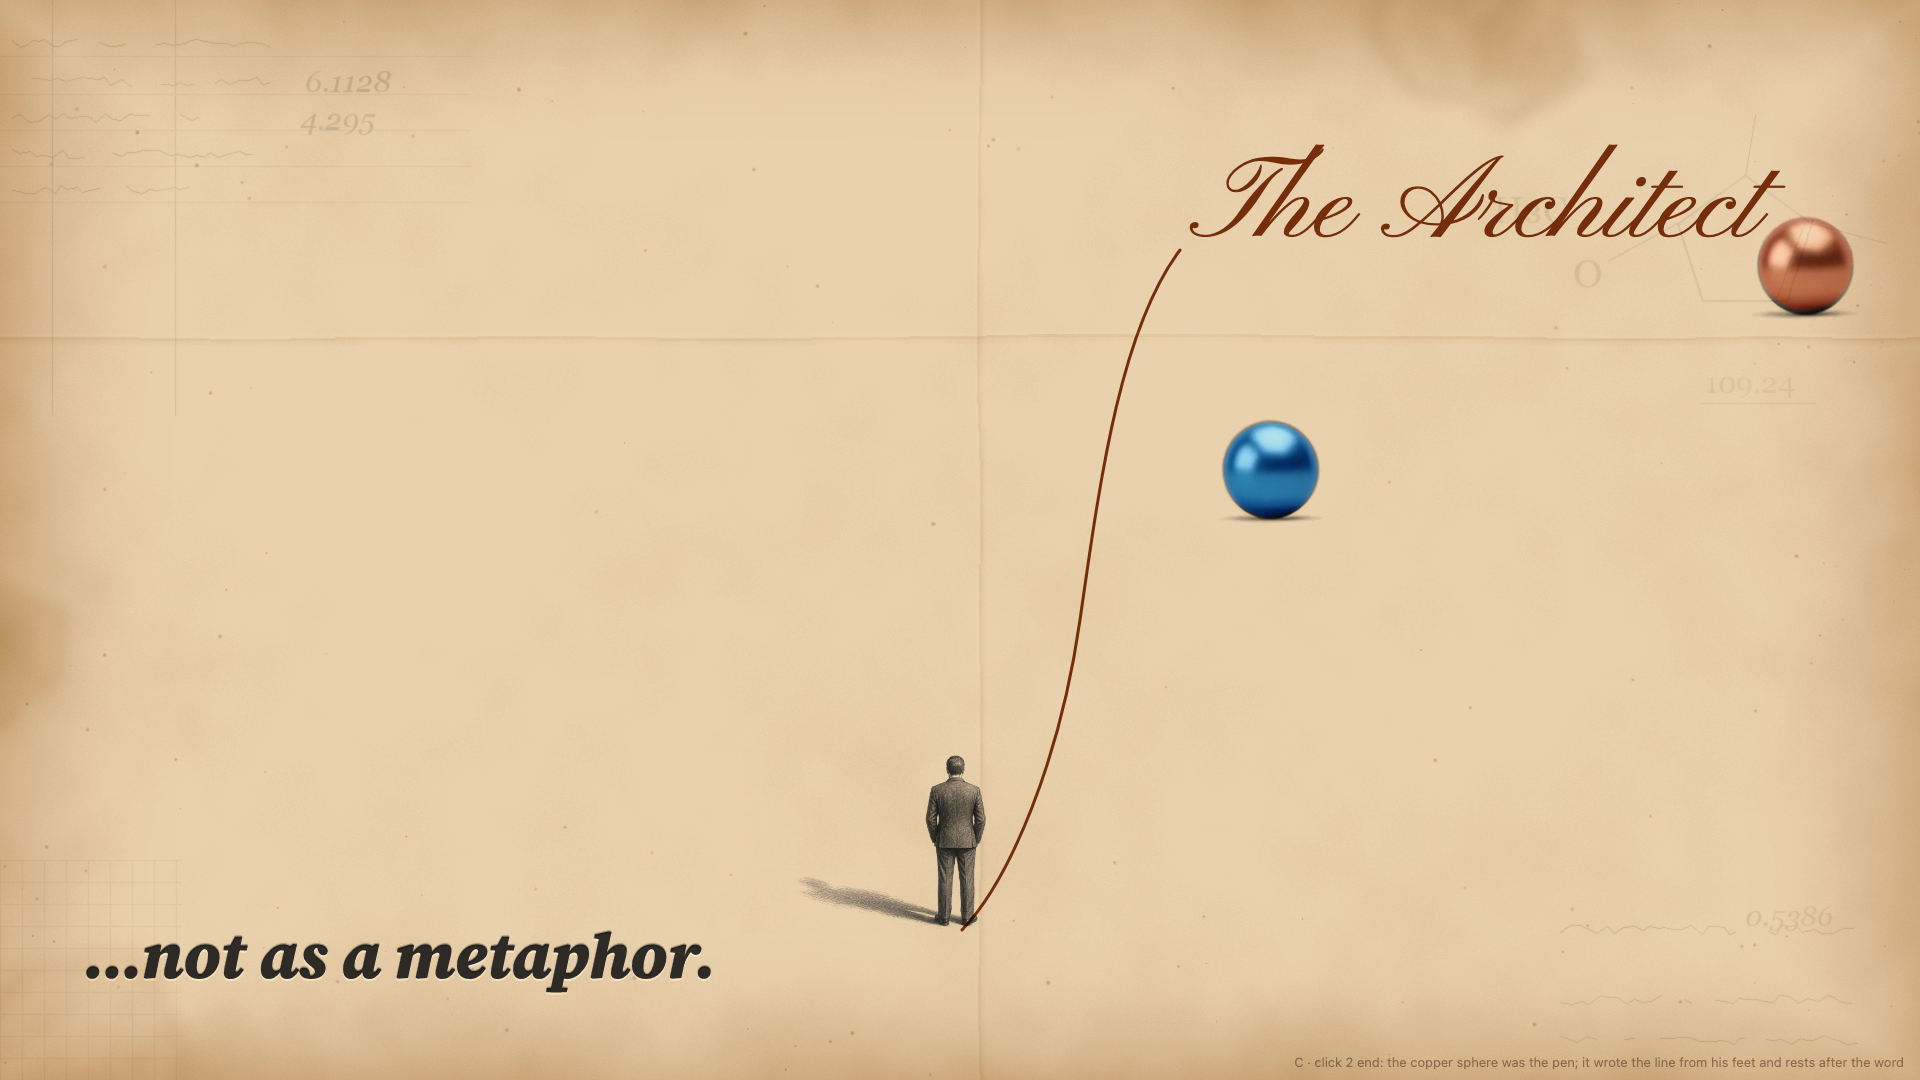
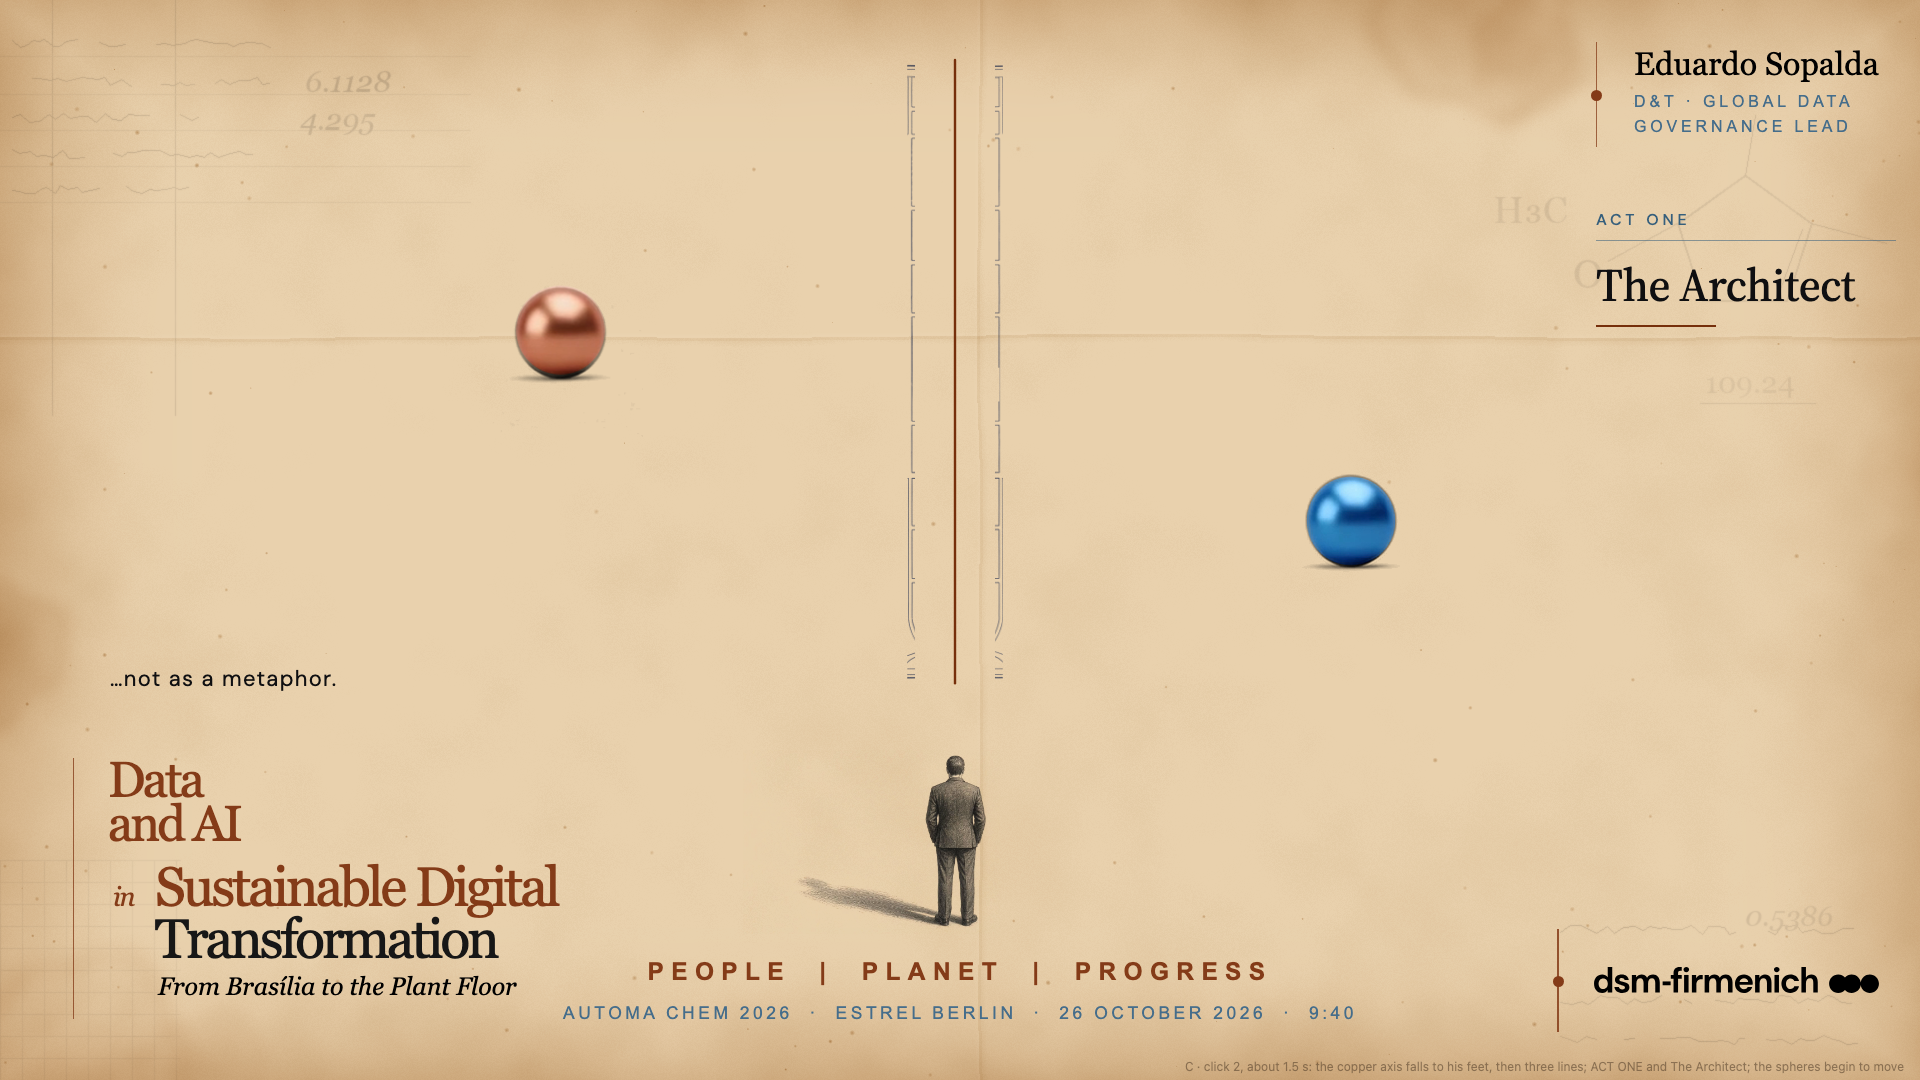
Act 1: stills inside the permanent frame (the field is his mind)
- act1/base-frame.png: the opening's final layout with the films hidden (frame, man, aged paper)
- plan axis aligned on the man; plan fits between the title and the right column
- 01 in DM Sans 100 (self hosted), the note in DM Sans, ACT ONE / The Architect / statement in the column
- plan lines extracted (act1/plan-lines.json) for the 1, 3, 6 and horizontal cuts sequence
- the plan's own tiny figure removed; the deck's man stands at the foot of the avenue

diff --git a/act1/stills.html b/act1/stills.html
@@ -3,119 +3,116 @@
 <head>
 <meta charset="utf-8">
 <title>Act 1 stills</title>
-<!-- Stills for Edu's approval. Nothing here animates. ?s=A to E picks a still. -->
+<!-- Act 1 stills for Edu's approval. Nothing animates here. ?s=A..E
+     The frame (title, name, logo, event lines, the man) is permanent: base-frame.png.
+     Everything else happens in the field inside it: what is going on in his head. -->
 <style>
   @font-face{font-family:"Source Serif 4";src:url("../fonts/SourceSerif4.ttf") format("truetype");font-weight:200 900}
-  @font-face{font-family:"Source Serif 4";src:url("../fonts/source-serif-4-latin-800-italic.woff2") format("woff2");font-weight:800;font-style:italic}
-  @font-face{font-family:"Source Serif 4";src:url("../fonts/source-serif-4-latin-400-italic.woff2") format("woff2");font-weight:400;font-style:italic}
-  @font-face{font-family:"Pinyon Script";src:url("../fonts/pinyon-script-latin-400-normal.woff2") format("woff2")}
+  @font-face{font-family:"DM Sans";src:url("../fonts/dm-sans-latin-100-normal.woff2") format("woff2");font-weight:100}
+  @font-face{font-family:"DM Sans";src:url("../fonts/DMSans-400.woff2") format("woff2");font-weight:400}
+  @font-face{font-family:"DM Sans";src:url("../fonts/DMSans-500.woff2") format("woff2");font-weight:500}
   html,body{margin:0;background:#e9d4ba;overflow:hidden}
-  .stage{position:absolute;left:0;top:0;width:1920px;height:1080px;overflow:hidden;background:#e9d4ba}
+  .stage{position:absolute;left:0;top:0;width:1920px;height:1080px;overflow:hidden}
   .abs{position:absolute}
-  .age{inset:0;width:1920px;height:1080px;mix-blend-mode:multiply;pointer-events:none}
-  .lit{inset:0;width:1920px;height:1080px;mix-blend-mode:screen;pointer-events:none}
-  .man{left:743px;top:750px;width:257px;height:184px;mix-blend-mode:multiply}
   .shadow{mix-blend-mode:multiply}
+  .ink{mix-blend-mode:multiply}
 
-  /* 01: a hairline copper numeral, "heated copper ink" in a raking light. No bloom. */
-  .one{left:36px;top:18px;font:200 1030px/0.78 "Source Serif 4",Georgia,serif;letter-spacing:-.04em;
-       background:linear-gradient(115deg,#8a3a12 0%,#c4733e 32%,#e3a877 45%,#b5602c 58%,#762F0B 100%);
+  /* 01: DM Sans Thin, heated copper, no bloom */
+  .one{left:392px;top:36px;font:100 760px/0.8 "DM Sans",sans-serif;letter-spacing:-.02em;
+       background:linear-gradient(115deg,#8a3a12 0%,#c4733e 30%,#e8ae7c 44%,#b5602c 58%,#762F0B 100%);
        -webkit-background-clip:text;background-clip:text;color:transparent;
-       filter:drop-shadow(0 0 6px rgba(216,156,103,.35))}
+       filter:drop-shadow(0 0 5px rgba(216,156,103,.30))}
 
-  /* ...not as a metaphor: heavy italic, pressed into the paper (letterpress) */
-  .metaphor{left:84px;bottom:92px;font:italic 800 64px/1 "Source Serif 4",Georgia,serif;color:rgba(15,15,17,.86);
-       text-shadow:0 1.5px 0 rgba(255,244,222,.75),0 -1px 1px rgba(0,0,0,.35)}
+  /* ...not as a metaphor: a small survey note */
+  .note{left:110px;top:668px;font:400 22px/1 "DM Sans",sans-serif;letter-spacing:.06em;color:#0F0F11}
 
-  /* The Architect: copper script written by the sphere */
-  .arch{left:1190px;top:150px;font:118px/1 "Pinyon Script",cursive;color:#762F0B}
+  /* The right column, under Edu's name */
+  .col{left:1596px;top:212px;width:300px;white-space:nowrap}
+  .act{font:500 16px/1 "DM Sans",sans-serif;letter-spacing:.24em;color:#365F7C}
+  .hair{height:1px;background:#365F7C;opacity:.55;margin:12px 0 20px}
+  .title{font:500 46px/1.05 "Source Serif 4",Georgia,serif;color:#0F0F11;letter-spacing:-.01em}
+  .copper{height:2px;background:#762F0B;margin:16px 0 26px}
+  .stmt{font:400 23px/1.4 "Source Serif 4",Georgia,serif;color:#0F0F11}
 
-  /* The plan */
-  .plane{left:0;top:0;width:1920px;height:1080px;transform-origin:50% 100%;mix-blend-mode:multiply}
-  .plane .plan{mix-blend-mode:normal}
-  .plan{left:0;top:0;width:1920px;height:1079px;mix-blend-mode:multiply}
-  .lbl{font:italic 400 12.5px/1.1 "Source Serif 4",Georgia,serif;color:#2c3a66;text-align:center;width:80px}
-
-  /* Thesis, lettered on the plan (legible only from above) */
-  .thesis{left:0;width:1920px;top:250px;text-align:center;font:500 150px/0.95 "Source Serif 4",Georgia,serif;
-       letter-spacing:.01em;color:#0F0F11;text-transform:uppercase;
-       -webkit-text-stroke:0;paint-order:stroke;text-shadow:0 0 18px #efe2cc,0 0 10px #efe2cc,0 0 4px #efe2cc}
-  .thesis2{left:0;width:1920px;top:580px;text-align:center;font:italic 400 58px/1.2 "Source Serif 4",Georgia,serif;color:#0F0F11;
-       text-shadow:0 0 14px #efe2cc,0 0 8px #efe2cc,0 0 3px #efe2cc}
-  .rule{height:2px;background:#762F0B}
-  .dot{width:13px;height:13px;border-radius:50%;background:#762F0B}
-  .cap{position:absolute;right:16px;bottom:10px;font:13px system-ui;color:rgba(80,60,40,.6)}
+  .lbl{font:italic 400 9.5px/1.1 "Source Serif 4",Georgia,serif;color:#2c3a66;text-align:center;width:56px}
+  .cap{position:absolute;right:16px;bottom:6px;font:12px system-ui;color:rgba(80,60,40,.55)}
 </style>
 </head>
 <body>
-<div class="stage" id="stage"></div>
+<div class="stage" id="stage"><img class="abs" src="base-frame.png" style="left:0;top:0;width:1920px;height:1080px"></div>
 <script>
 const q = new URLSearchParams(location.search), s = q.get("s") || "A";
 const st = document.getElementById("stage");
-const add = (html) => st.insertAdjacentHTML("beforeend", html);
+const add = (h) => st.insertAdjacentHTML("beforeend", h);
+const NS = "http://www.w3.org/2000/svg";
 
-// Spheres: sprite crops (from clip2's last frame) are 168x193 / 166x191 with the centre at (84.5, 84.5) / (83.5, 83.5), radius 44.5 / 44
+// The plan inside the field: its central axis (1006.5 in the 2000 px preview) sits exactly on the man (x 955)
+const K = 0.65, AX = 1006.5, TOP = 60;
+const F = (x, y) => [955 + (x - AX) * K, TOP + (y - 86) * K];
+const IMG = { w: 2732 / 2000, left: F(0, 0)[0], top: F(0, 0)[1] };        // image placement: 2000 px preview space -> stage
+const imgW = 2000 * K, imgH = 1124.4 * K;
+
+// The plan's own lines (tools: act1/plan-lines.json), in the order they are drawn
+const AXIS = 1006.5;
+const THREE = [939, 1074];
+const SIX = [904, 1109, 800, 1214];
+const CUTS = [113, 402, 557, 729, 964, 1023];
+
+function plan(lines) {        // lines: {v:[x...], h:[y...]} to reveal, or "all"
+  const id = "m" + Math.random().toString(36).slice(2, 7);
+  let mask = "";
+  if (lines !== "all") {
+    for (const x of lines.v) mask += `<rect x="${x - 6}" y="86" width="12" height="959" fill="#fff"/>`;
+    for (const y of lines.h) mask += `<rect x="98" y="${y - 6}" width="1816" height="12" fill="#fff"/>`;
+  }
+  add(`<svg class="abs ink" width="1920" height="1080" style="left:0;top:0">
+    <defs><mask id="${id}" maskUnits="userSpaceOnUse" x="0" y="0" width="2000" height="1125">${mask}</mask></defs>
+    <g transform="translate(${F(0, 86)[0]} ${F(0, 86)[1] - 86 * K}) scale(${K})">
+      <image href="masterplan-ink.png" width="2000" height="1124.4" ${lines === "all" ? "" : `mask="url(#${id})"`}/>
+    </g></svg>`);
+}
+function axis(extent = 1) {  // the first line: copper, the idea, drawn by hand from the top of the plan down to him
+  const [x, y0] = F(AXIS, 86), [, y1] = F(AXIS, 1045);
+  add(`<svg class="abs" width="1920" height="1080" style="left:0;top:0"><line x1="${x}" y1="${y0}" x2="${x}" y2="${y0 + (y1 - y0) * extent}" stroke="#762F0B" stroke-width="2.4" stroke-linecap="round"/></svg>`);
+}
 const SPH = { copper: { w: 168, h: 193, c: 84.5, r: 44.5 }, blue: { w: 166, h: 191, c: 83.5, r: 44 } };
 function sphere(name, x, y, r) {
-  const k = r / SPH[name].r, o = SPH[name];
-  const L = x - o.c * k, T = y - o.c * k;
+  const k = r / SPH[name].r, o = SPH[name], L = x - o.c * k, T = y - o.c * k;
   add(`<img class="abs shadow" src="shadow-${name}.png" style="left:${L}px;top:${T}px;width:${o.w * k}px;height:${o.h * k}px">`);
   add(`<img class="abs" src="sphere-${name}.png" style="left:${L}px;top:${T}px;width:${o.w * k}px;height:${o.h * k}px">`);
 }
-// Positions, measured: where clip 2 leaves them, and shere.png's targets
-const AT = { copper: [640, 469, 47], blue: [1270, 469, 47] };
+const START = { copper: [640, 469, 47], blue: [1270, 469, 47] };
+const HOME = { copper: [...F(285, 240), 38], blue: [...F(1756, 896), 38] };
 
-// Masterplan in overhead view (2732x1536 scaled to 1920x1079): 2000 px preview coordinates x 0.96
-const P = (x, y) => [x * 0.96, y * 0.96];
-const LABELS = [
-  [248, 140, "Ministry of Governance"], [335, 140, "Executive Direction"], [158, 211, "Ministry of Governance"],
+function column(stage) {
+  let h = `<div class="abs col"><div class="act">ACT ONE</div><div class="hair"></div><div class="title">The Architect</div><div class="copper" style="width:${stage >= 1 ? 100 : 40}%"></div>`;
+  if (stage >= 2) h += `<div class="stmt">We design from above.<br>Not always for the person<br>who has to live<br>with the result.</div>`;
+  add(h + `</div>`);
+}
+const LABELS = [[248, 140, "Ministry of Governance"], [335, 140, "Executive Direction"], [158, 211, "Ministry of Governance"],
   [421, 213, "Operational Risk"], [504, 184, "Ministry of Administration"], [159, 300, "Ministry of Governance"],
   [421, 302, "Ministry of Governance"], [502, 310, "Ministry of Governance"], [250, 359, "Operational Risk"],
-  [332, 359, "Executive Direction"], [1761, 819, "Plant Interface Zone"],
-];
-function plan(transform, labels = true) {
-  let h = `<div class="abs plane" style="transform:${transform}">`;
-  h += `<img class="abs plan" src="masterplan-ink.png">`;
-  if (labels) for (const [x, y, t] of LABELS) { const [X, Y] = P(x, y); const wide = t.startsWith("Plant"); h += `<div class="abs lbl" style="left:${X - (wide ? 80 : 40)}px;top:${Y - 9}px;${wide ? "width:160px;font-size:15px" : ""}">${wide ? t : t.replace(" of ", " of<br>").replace("Executive ", "Executive<br>").replace("Operational ", "Operational<br>")}</div>`; }
-  h += `</div>`;
-  add(h);
-}
-function paper() { add(`<img class="abs age" src="../opening/paper-age.png"><img class="abs lit" src="../opening/paper-light.png">`); }
-function man(op = 1) { add(`<img class="abs man" src="../opening/man.png" style="opacity:${op}">`); }
-function cap(t) { add(`<div class="cap">${t}</div>`); }
+  [332, 359, "Executive Direction"], [1761, 819, "Plant Interface Zone"]];
+function labels() { for (const [x, y, t] of LABELS) { const [X, Y] = F(x, y); const w = t.startsWith("Plant"); add(`<div class="abs lbl" style="left:${X - (w ? 45 : 28)}px;top:${Y - 6}px;${w ? "width:90px" : ""}">${w ? t : t.replace(" of ", " of<br>").replace("Executive ", "Executive<br>").replace("Operational ", "Operational<br>")}</div>`); } }
+const note = () => add(`<div class="abs note">…not as a metaphor.</div>`);
+const cap = (t) => add(`<div class="cap">${t}</div>`);
 
-if (s === "A") {       // Click 1, about 1 s in: the frame has dissolved, the spheres have settled, 01 at full heat
-  add(`<div class="abs one">01</div>`);
-  sphere("copper", ...AT.copper); sphere("blue", ...AT.blue);
-  man(); add(`<div class="abs metaphor">…not as a metaphor.</div>`);
-  paper(); cap("A · click 1, about 1 s: the corners have dissolved, the spheres settle, 01 blazes");
+if (s === "A") { add(`<div class="abs one">01</div>`); sphere("copper", ...START.copper); sphere("blue", ...START.blue); note(); cap("A · click 1, about 1 s: 01 glows in the field; the note settles low on the left"); }
+if (s === "B") { sphere("copper", ...START.copper); sphere("blue", ...START.blue); note(); cap("B · click 1 end: 01 has sunk into the paper"); }
+if (s === "C") {
+  axis(1); plan({ v: THREE, h: [] }); column(0.5);
+  sphere("copper", 560, 330, 44); sphere("blue", 1350, 520, 44); note();
+  cap("C · click 2, about 1.5 s: the copper axis falls to his feet, then three lines; ACT ONE and The Architect; the spheres begin to move");
 }
-if (s === "B") {       // Click 1 end: 01 has sunk into the paper
-  sphere("copper", ...AT.copper); sphere("blue", ...AT.blue);
-  man(); add(`<div class="abs metaphor">…not as a metaphor.</div>`);
-  paper(); cap("B · click 1 end: 01 has sunk into the grain, the line stays");
+if (s === "D") {
+  axis(1); plan({ v: [...THREE, ...SIX], h: CUTS }); column(1);
+  sphere("copper", ...HOME.copper); sphere("blue", ...HOME.blue); note();
+  cap("D · click 2 end: six lines and the horizontal cuts; the spheres have been herded into their zones");
 }
-if (s === "C") {       // Click 2 end: the copper sphere has written The Architect, from his feet
-  add(`<svg class="abs" width="1920" height="1080" style="left:0;top:0"><path d="M962 930 C 1010 880, 1060 760, 1080 620 S 1120 330, 1180 250" fill="none" stroke="#762F0B" stroke-width="3" stroke-linecap="round"/></svg>`);
-  add(`<div class="abs arch">The Architect</div>`);
-  sphere("copper", 1805, 262, 47); sphere("blue", ...AT.blue);
-  man(); add(`<div class="abs metaphor">…not as a metaphor.</div>`);
-  paper(); cap("C · click 2 end: the copper sphere was the pen; it wrote the line from his feet and rests after the word");
-}
-if (s === "D") {       // Click 3, mid tilt: the plan lies on the floor behind him and rises toward us
-  plan("perspective(900px) rotateX(58deg) scale(1.15)", false);
-  add(`<div class="abs plane" style="transform:perspective(900px) rotateX(58deg) scale(1.15)"><div class="abs thesis">We design<br>from above.</div></div>`);
-  sphere("copper", 520, 560, 40); sphere("blue", 1420, 640, 44);
-  man(0.85); paper();
-  cap("D · click 3, halfway: the plan tilts up from the floor; the words on it are still unreadable from where he stands");
-}
-if (s === "E") {       // Click 3 end: overhead. The words are readable only from above.
-  plan("none");
-  add(`<div class="abs thesis">We design<br>from above.</div>`);
-  add(`<div class="abs thesis2">Not always for the person<br>who has to live with the result.</div>`);
-  const [cx, cy] = P(285, 240), [bx, by] = P(1756, 896);
-  sphere("copper", cx, cy, 57); sphere("blue", bx, by, 57);
-  paper(); cap("E · click 3 end: from above the sentence can be read; copper at the centre of governance, blue pushed to the edge");
+if (s === "E") {
+  axis(1); plan("all"); labels(); column(2);
+  sphere("copper", ...HOME.copper); sphere("blue", ...HOME.blue); note();
+  cap("E · click 3 end: the plan is complete; the statement sits in the column; the avenue in front of him stays empty");
 }
 </script>
 </body>

diff --git a/tools/make_masterplan.py b/tools/make_masterplan.py
@@ -64,6 +64,8 @@ def repair(m):
 # baked spheres and their cast shadows
 clear_disc(285, 240, 62)
 clear_disc(1756, 896, 74)
+# the plan's own tiny figure: the deck's man stands below the plan instead, at the foot of its avenue
+clear_disc(1004, 556, 16); clear(1008, 560, 1075, 612, 0)
 # garbled or repeated labels in the governance block, and the plant label
 for bx in [(219, 127, 277, 153), (307, 127, 362, 153), (133, 196, 183, 226), (393, 199, 450, 227),
            (469, 170, 539, 198), (134, 286, 184, 315), (393, 290, 450, 315), (473, 297, 532, 322),
